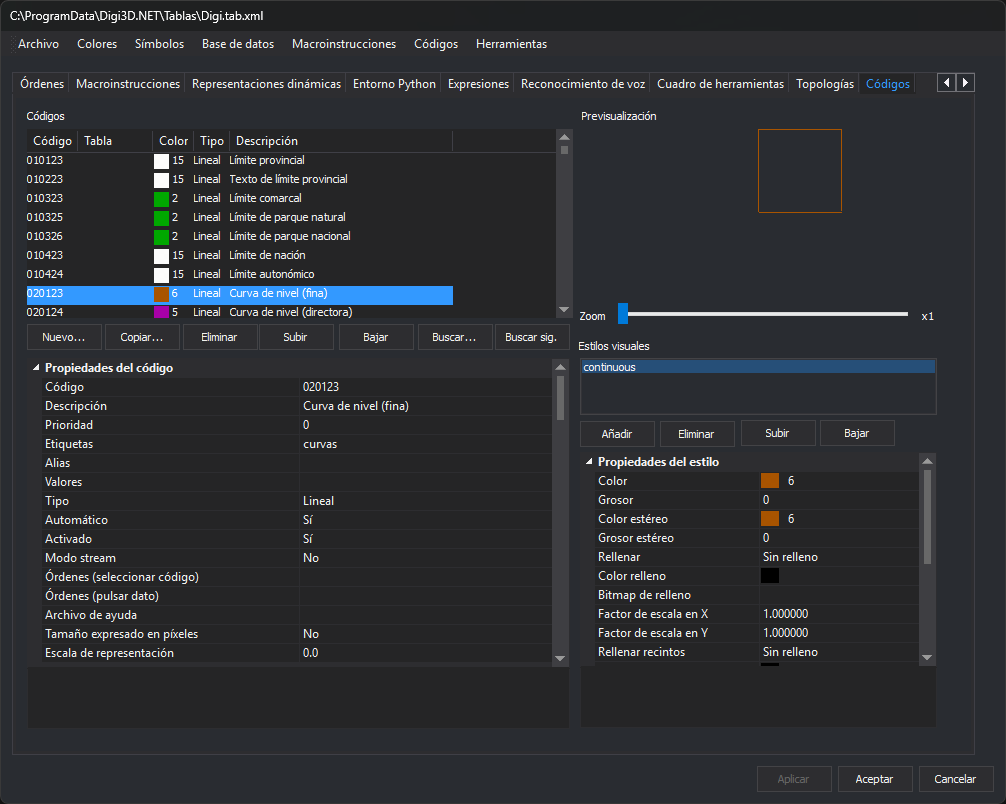
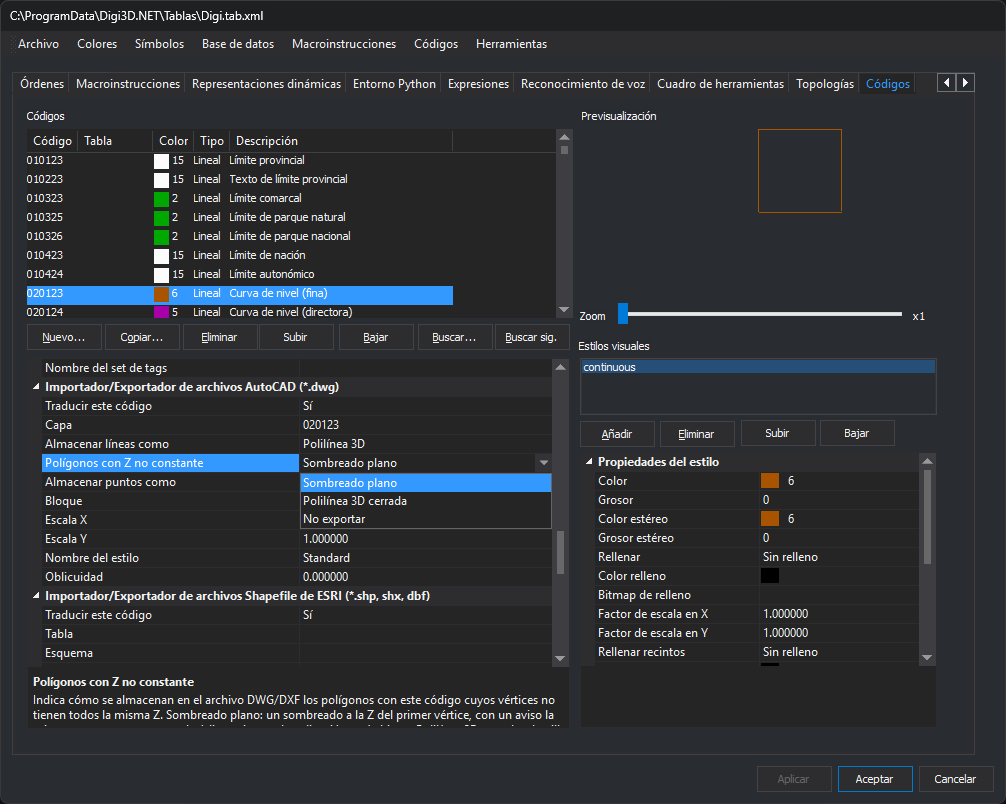
Editor de tablas, pestaña Códigos: captura con la categoría DWG y las categorías de importadores
La cuadrícula tiene una categoría por cada importador/exportador, con enlace a la página de DWG para Polígonos con Z no constante. Eliminar, Subir, Bajar y el menú contextual modifican la tabla sin Aplicar; tras el cuadro hay que volver a seleccionar el código para moverlo.

diff --git a/src/digi3d-ai/referencia/editor-de-tablas-de-codigos/pestanas/codigos/README.md b/src/digi3d-ai/referencia/editor-de-tablas-de-codigos/pestanas/codigos/README.md
@@ -13,18 +13,21 @@ Botones de la lista:
 
 * **Nuevo...**: abre el cuadro **Nuevo código**, que pide el nombre del código y avisa si ya existe en la tabla de códigos.
 * **Copiar...**: crea un código nuevo con las propiedades del seleccionado; pide su nombre en el mismo cuadro.
-* **Eliminar**: elimina el código seleccionado.
+* **Eliminar**: elimina el código seleccionado, sin pedir confirmación.
 * **Subir** y **Bajar**: cambian la posición del código seleccionado.
+
+**Eliminar**, **Subir**, **Bajar** y las opciones del menú contextual modifican la tabla de códigos en el momento, sin pulsar **Aplicar**.
 * **Buscar...**: abre el cuadro **Buscar**, que localiza un código por su nombre. Sus casillas **Permitir buscar por descripción**, **Coincidir mayúsculas/minúsculas** y **Solo palabras completas** ajustan la búsqueda.
 * **Buscar sig.**: busca la siguiente coincidencia con los mismos criterios.
 
 ## Propiedades del código
 
-La cuadrícula inferior izquierda muestra las propiedades del código seleccionado, en tres categorías:
+La cuadrícula inferior izquierda muestra las propiedades del código seleccionado, en estas categorías:
 
 * [Propiedades del código](propiedades-del-codigo.md).
 * [Base de datos](base-de-datos.md).
 * **Control de calidad**: la casilla **Analizar control de calidad al digitalizar** y **Controles de calidad a aplicar**, que abre el cuadro **Controles de calidad**.
+* Una categoría por cada importador/exportador que traduce códigos, por ejemplo **Importador/Exportador de archivos AutoCAD (\*.dwg)** o **Importador/Exportador de archivos Shapefile de ESRI (\*.shp, shx, dbf)**, con los parámetros de traducción del código a ese formato. Los parámetros de cada formato se describen en su página de [Importadores y exportadores](/digi3d-ai/referencia/ventana-de-dibujo/importadores-y-exportadores/README.md); por ejemplo, la propiedad **Polígonos con Z no constante** de la imagen está en la página de [DWG](/digi3d-ai/referencia/ventana-de-dibujo/importadores-y-exportadores/dwg.md), y se aplica también a los archivos DXF.
 
 ## Previsualización y estilos visuales
 
@@ -49,7 +52,7 @@ Si el código tiene cambios sin aplicar y pulsas **Nuevo...**, **Copiar...**, **
 * **Aplicar los cambios**: aplica los cambios al código. Es el botón predeterminado.
 * **Descartar los cambios**: descarta los cambios del código. Si el código era nuevo, lo quita de la lista. Esc equivale a este botón.
 
-Después, **Nuevo...** y **Copiar...** continúan y piden el nombre del código; **Copiar...** no continúa si el código descartado era nuevo, porque ya no hay código que copiar. **Subir** y **Bajar** no mueven el código: vuelve a pulsar el botón.
+Después, **Nuevo...** y **Copiar...** continúan y piden el nombre del código; **Copiar...** no continúa si el código descartado era nuevo, porque ya no hay código que copiar. **Subir** y **Bajar** no mueven el código: vuelve a seleccionar el código en la lista y pulsa el botón.
 
 ### Al cambiar de página
 
